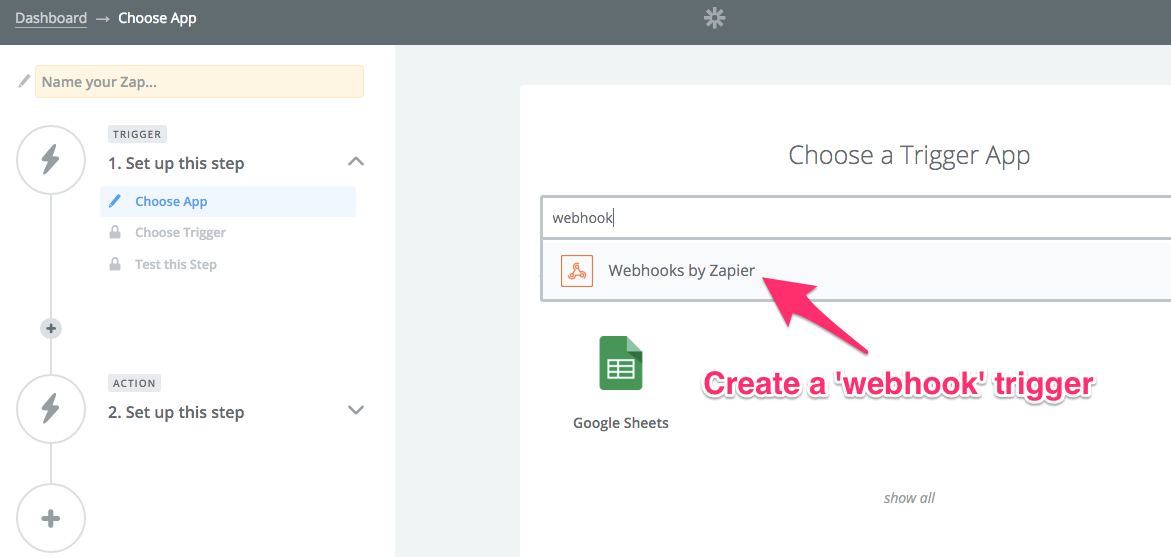
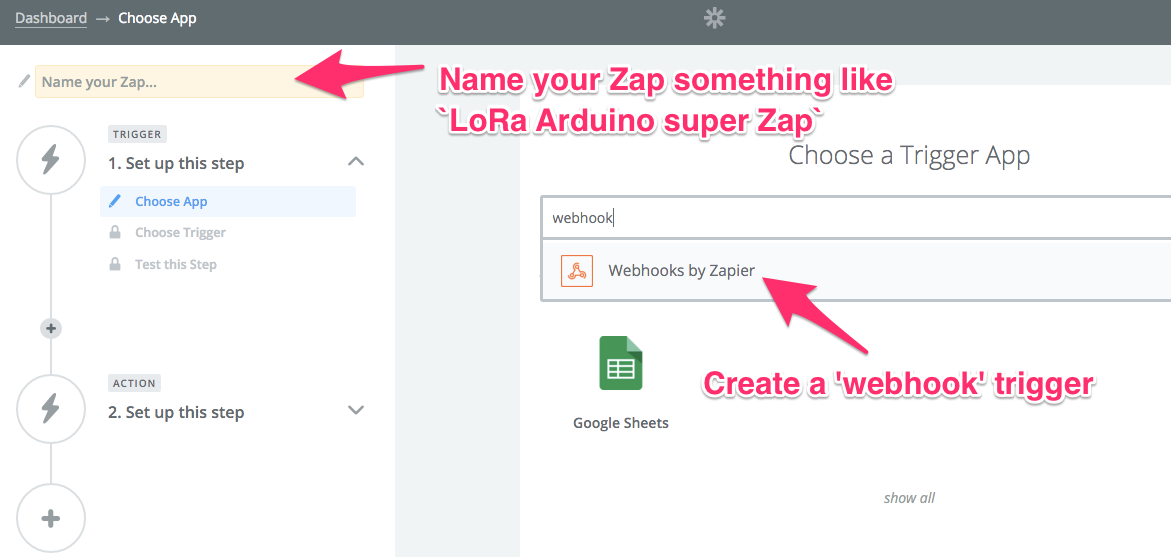
reviewing the whole doc. making tweaks

Changed region(s): [[0.2459, 0.0916, 0.7686, 0.2442]]

diff --git a/README.md b/README.md
@@ -245,7 +245,7 @@ Assemble the hardware to match the diagram and photo below:
   
 ![](assets/LittleBits_Sensors_LoRa.png)    
     
- **In case you chose the Adafruit sensors**   
+###In case you're using Adafruit sensors  
  
  ![](assets/adafruit_img1.png)  
  
@@ -274,13 +274,6 @@ The hardware is assembled. You still have a few steps to go but you're getting c
    _Notice that the `time_threshold` is set at 900. The data will be sent every 15 minutes unless you click the button 10 times in a row._   
    
 You're sending data via LoRa, congratulations!   
-
-### Connectivity debugging tips
-If you're having trouble getting this project to work, here are some steps you can take:
-
-* If your mDot keeps joining and then failing to join the network, you're at the edge of your coverage. Move to another spot (probably closer to outdoors) where you can get consistent coverage.   
-* If your mDot isn't sending data to the Senet LoRa network, validate that you have coverage by plugging in the Semtech NorAm mote.  If you don't receive data from the mote, then you probably won't be able to receive data from the mDot either.  You'll need to find a new location (which could be as close as the nearest window or as far as miles away) where you get coverage.
-
    
 ![](assets/test_drive1.png)    
 
@@ -294,8 +287,16 @@ If you're having trouble getting this project to work, here are some steps you c
 
 ![](assets/test_drive6.png)  
 
+
+### Debugging tips for LoRa connectivity
+If you're having trouble getting this project to work, here are some steps you can take:
+
+* If your mDot keeps joining and then failing to join the network, you're at the edge of your coverage. Move to another spot (probably closer to outdoors) where you can get consistent coverage.   
+* If your mDot isn't sending data to the Senet LoRa network, validate that you have coverage by plugging in the Semtech NorAm mote.  If you don't receive data from the mote, then you probably won't be able to receive data from the mDot either.  You'll need to find a new location (which could be as close as the nearest window or as far as miles away) where you get coverage.
+
+
 ### Send data from Senet via Zapier to a Google Spreadsheet
-Once you're sending data to Senet, the final step is to get the data into a Google Sheet for easy analysis.  We'll now connect Senet, Zapier, and gDocs so that Senet sends a JSON payload to Zapier; then Zapier copies the payload into a column in a Google Sheet. In your browser, you'll need to keep tabs open to all three websites.
+Once you're sending data to Senet, the final step is to get the data into a Google Sheet for easy analysis.  We'll now connect **Senet, Zapier, and gDocs** so that Senet sends a JSON payload to Zapier; then Zapier copies the payload into a column in a Google Sheet. In your browser, you'll need to **keep tabs open to all three websites**.
 
 
 Create a new Google Sheet and name it something like `LoRa Arduino Awesome Sheet`. Copy these column headers and paste them into the Sheet:  
@@ -312,10 +313,11 @@ _These column headers are formatted so that you can easily copy-paste them into 
 Now that your gDoc Sheet is ready, you can prepare your zap. We start with the `Trigger`.
 
 1. In Zapier, click `Make a Zap`. 
-2. In the trigger search bar, type `webhook` and select `Webhooks by Zapier`. 
-3. Select `Catch Hook`.
-4. In `Pick off a child key (optional)` just click `Continue` to skip this step.
-5. Click `Copy to clipboard` to copy the the Zapier webhook URL.
+2. Name your Zap something like `LoRa Arduino super Zap`.
+3. In the trigger search bar, type `webhook` and select `Webhooks by Zapier`. 
+4. Select `Catch Hook`.
+5. In `Pick off a child key (optional)` just click `Continue` to skip this step.
+6. Click `Copy to clipboard` to copy the the Zapier webhook URL.
 
 ![](assets/Zapier_make_a_zap.png)  
 
